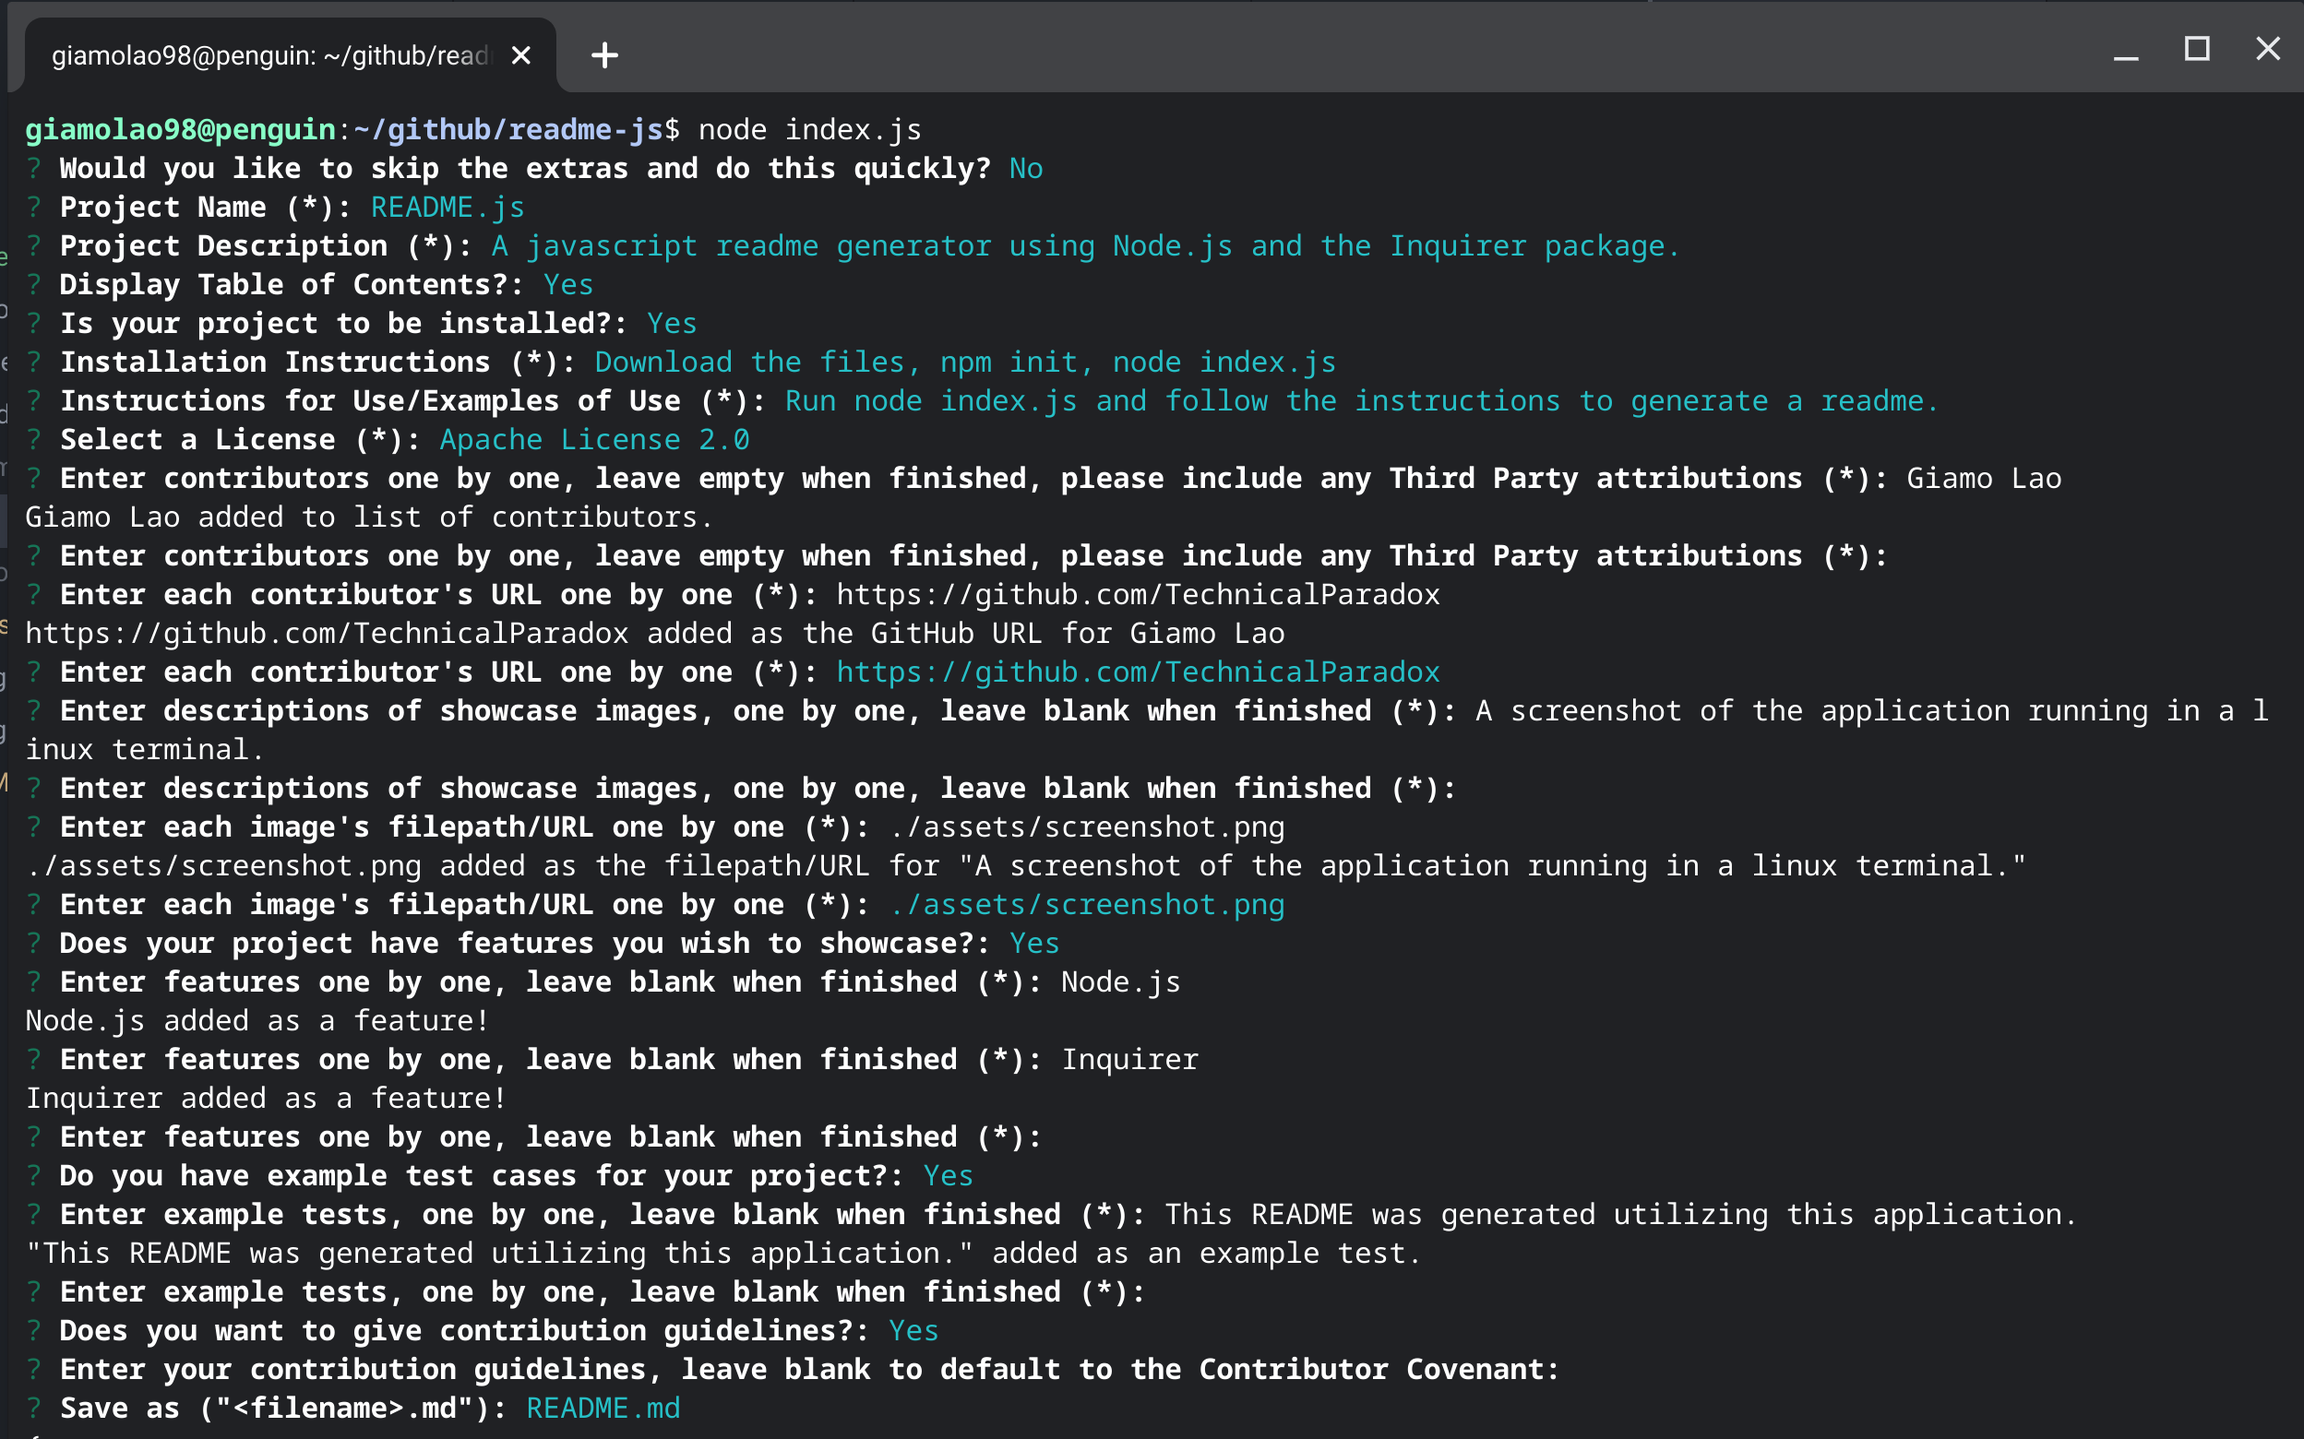
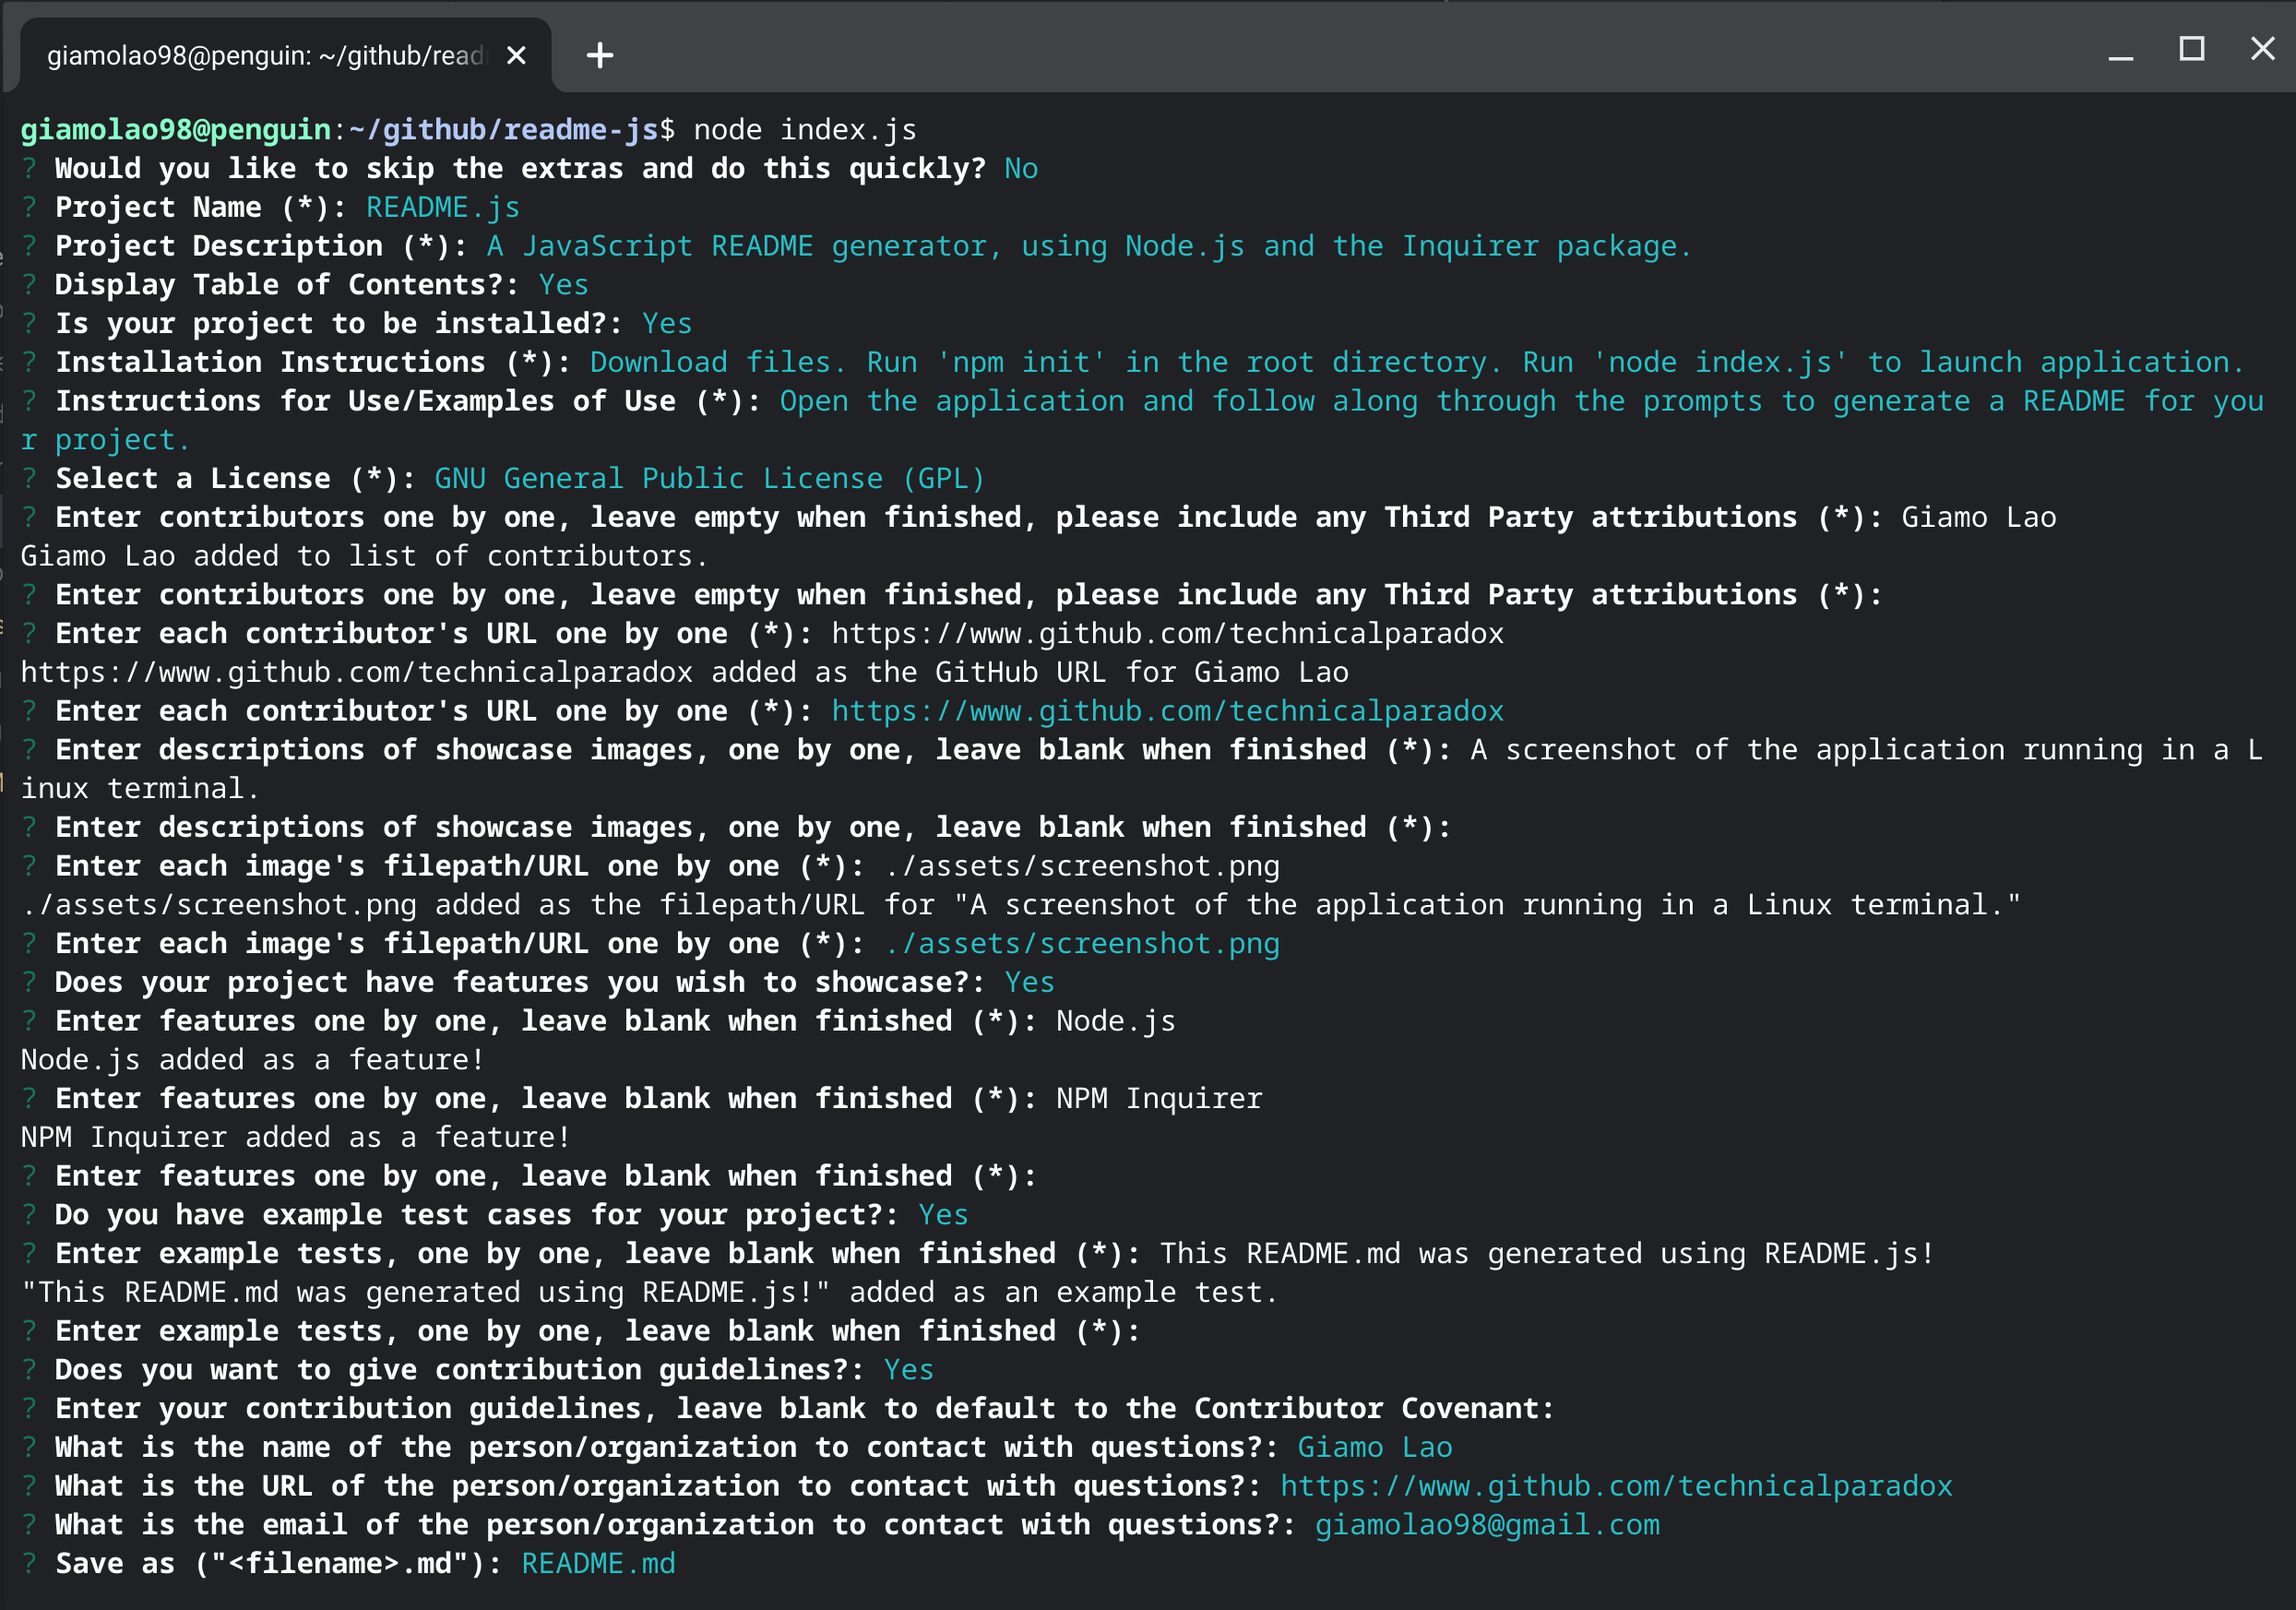
Finished

Changed region(s): [[0.0, 0.0, 1.0, 0.9846], [0.8353, 0.2154, 0.959, 0.2769], [0.8043, 0.9231, 0.8353, 0.9538]]

diff --git a/utils/generateMarkdown.js b/utils/generateMarkdown.js
@@ -13,7 +13,7 @@ function renderLicenseSection(license, customName, customURL, customBadge, badge
         section += "["+customName+"]("+customURL+")";
       break;
     case 'None':
-      section += "This project does not currently use a license.\n";
+      section += "This project does not currently use a license.";
       break;
     case 'Apache License 2.0':
       section += `[![License: Apache 2.0](https://img.shields.io/badge/License-Apache%202.0-blue.svg)](https://opensource.org/licenses/Apache-2.0)`;
@@ -41,15 +41,14 @@ function renderLicenseSection(license, customName, customURL, customBadge, badge
       break;
   }
   if (license != "None")
-    section += "*Click link for license details.*\n"
+    section += "*Click link for license details.*"
   return section;
 }
 
 // TODO: Create a function to generate markdown for README
 function generateMarkdown(data)
 {
-  return `
-# ${data.title}
+  return `# ${data.title}
 ##### ${data.desc}
 ${renderLicenseSection(data.license, data.license_name, data.license_url, data.has_badge, data.license_badge_url)}
 ---------------${toc(data)}${install(data.installation)}
@@ -62,9 +61,9 @@ ${
   generateContributors(data.contributors, data.contributorURLs) +
   generateList("Features", data.has_features, data.features) +
   generateContGuidelines(data.has_cont_guidlines, data.cont_guidelines) +
-  generateList("Tests", data.has_tests, data.tests)
-}
-`;
+  generateList("Tests", data.has_tests, data.tests) +
+  generateQuestions(data.has_q, data.q_contact_name, data.q_contact_url, data.q_contact_email)
+}`;
 }
 
 // Returns the table of contents section, if used
@@ -83,6 +82,8 @@ function toc(data)
       list += "* [Contribution Guidelines](#contribution-guidelines)\n";
     if (data.has_tests)
       list += "* [Tests](#tests)\n";
+    if (data.q_contact_name)
+      list += "* [Questions](#questions)\n";
     return list+"---------------";
   }
   else
@@ -130,6 +131,7 @@ function generateList(label, exists, items)
   else return "";
 }
 
+// Function that returns Contribution Guidelines section if needed
 function generateContGuidelines(exists, guidelines)
 {
   if (exists)
@@ -141,8 +143,20 @@ function generateContGuidelines(exists, guidelines)
     }
     return "## Contribution Guidelines\n"+guidelines+"\n";
   }
-  else
-    return "";
+  else return "";
+}
+
+// Function that returns the questions section of where questions should be directed, if needed
+function generateQuestions(exists, name, url, email)
+{
+  if (exists)
+  {
+    let section = "## Questions\nAny questions should be directed to \n";
+    section += "["+name+"]("+url+")\n";
+    section += "["+email+"](mailto:"+url+")";
+    return section;
+  }
+  else return "";
 }
 
 module.exports = generateMarkdown;

diff --git a/index.js b/index.js
@@ -73,8 +73,8 @@ const questions =
       'Apache License 2.0',
       'BSD 3-Clause ("New/Revised") License',
       'BSD 2-Clause ("Simplified/FreeBSD") License',
-      'GNU General Public License (GPL)',
-      'GNU Library or "Lesser" General Public License (LGPL)',
+      'GNU General Public License v3 (GPLv3)',
+      'GNU Library or "Lesser" General Public License v3 (LGPLv3)',
       'MIT License',
       'Mozilla Public License 2.0',
       'Eclipse Public License version 1.0',
@@ -261,8 +261,37 @@ const questions =
     name: 'cont_guidelines',
     message: 'Enter your contribution guidelines, leave blank to default to the Contributor Covenant:',
     when: a => {return a.has_cont_guidlines;}
+  },
+    // If !quick, does the user want a questions section?
+  {
+    type: 'confirm',
+    name: 'has_q',
+    message: 'Would you like to add a Questions section so users know where to direct their questions?:',
+    default: true,
+    when: a => {return !a.quick;}
+  },
+  // Questions section with email/github contact info
+  {
+    type: 'input',
+    name: 'q_contact_name',
+    message: 'What is the name of the person/organization to contact with questions?:',
+    when: a => {return a.has_q;},
+    validate: a => {return a ? true : "Please enter the name of the person/organization to contact with questions!";}
+  },
+  {
+    type: 'input',
+    name: 'q_contact_url',
+    message: 'What is the URL of the person/organization to contact with questions?:',
+    when: a => {return a.has_q;},
+    validate: a => {return a ? true : "Please enter the URL of the person/organization to contact with questions!";}
+  },
+  {
+    type: 'input',
+    name: 'q_contact_email',
+    message: 'What is the email of the person/organization to contact with questions?:',
+    when: a => {return a.has_q;},
+    validate: a => {return a ? true : "Please enter the email of the person/organization to contact with questions!";}
   }
-  // TODO: Questions section with email/github contact info
 
   // TODO: Check if the user wants to change anything and change it
 ];

diff --git a/README.md b/README.md
@@ -1,8 +1,8 @@
-
 # README.js
-##### A javascript readme generator using Node.js and the Inquirer package.
+##### A JavaScript README.md generator that uses Node.js and the NPM Inquirer package.
 ###License
-[![License: Apache 2.0](https://img.shields.io/badge/License-Apache%202.0-blue.svg)](https://opensource.org/licenses/Apache-2.0)
+[![License: GPL v3](https://img.shields.io/badge/License-GPLv3-blue.svg)](https://www.gnu.org/licenses/gpl-3.0)
+*Click link for license details.*
 ---------------
 ## Table of Contents:
 * [Installation](#installation)
@@ -11,20 +11,25 @@
 * [Features](#features)
 * [Contribution Guidelines](#contribution-guidelines)
 * [Tests](#tests)
+* [Questions](#questions)
 ---------------
 ## Installation:
-Download the files, npm init, node index.js
+Download the files. Run 'npm init' in the root directory. Run 'node index.js' to launch the application.
 ## Usage
-Run node index.js and follow the instructions to generate a readme.
+Launch the application and follow the on screen prompts to create your project's README file.
 
 ![A screenshot of the application running in a linux terminal.](./assets/screenshot.png)
 
 ## Credits
-[Giamo Lao](https://github.com/TechnicalParadox)
+[Giamo Lao](https://www.github.com/technicalparadox)
 ## Features
 * Node.js
-* Inquirer
+* NPM Inquirer
 ## Contribution Guidelines
 [The Contributor Covenant](https://www.contributor-covenant.org/)
 ## Tests
-* This README was generated utilizing this application.
+* This README.md was generated using README.js
+## Questions
+Any questions should be directed to
+[Giamo Lao](https://www.github.com/technicalparadox)
+[giamolao98@gmail.com](mailto:https://www.github.com/technicalparadox)
